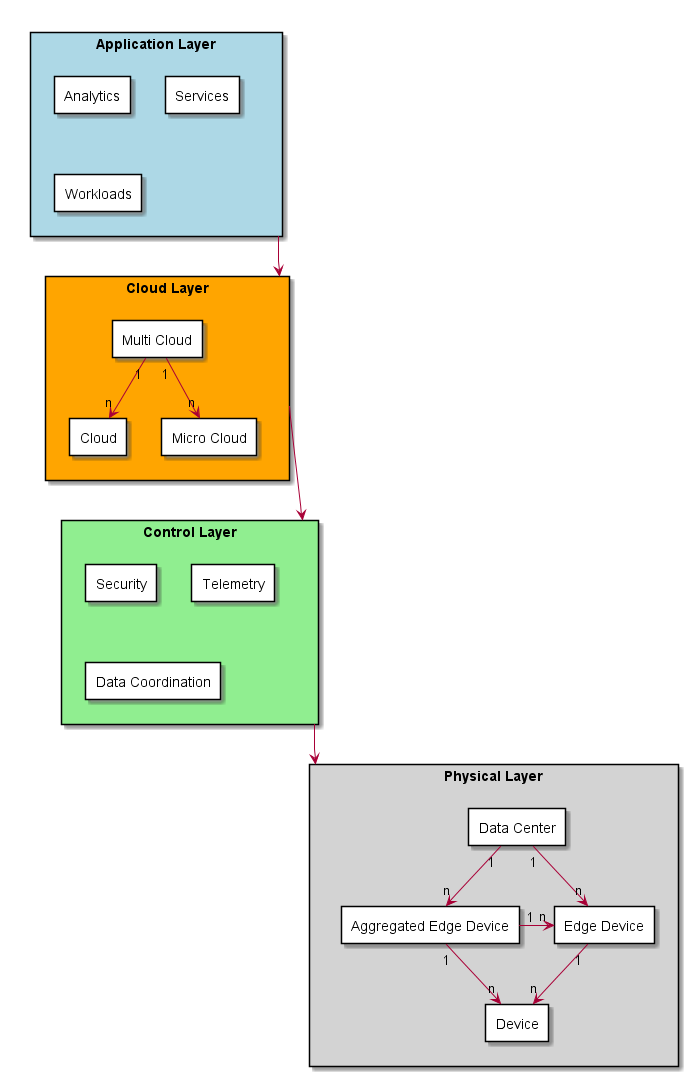
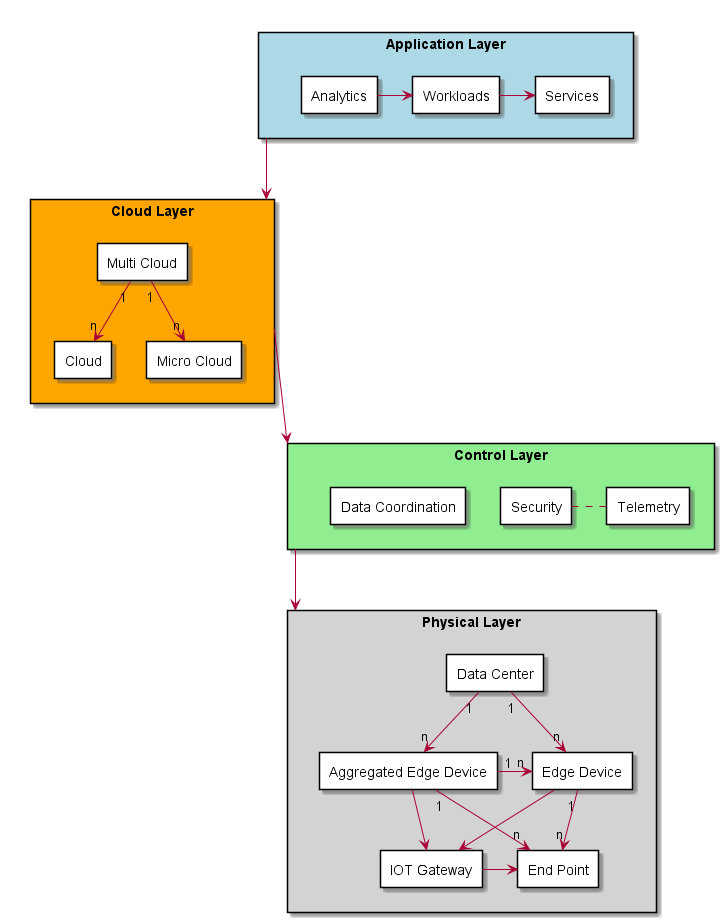
Clean up the layers.

diff --git a/docs/Home.rst b/docs/Home.rst
@@ -77,10 +77,19 @@ Logical Architecture
 The Edgeville Architecture contains several subsystems and components. The following is a diagram on
 how these components work together to fulfill the high level use cases.
 
-* :ref:`SubSystem-Cloud` - contains all of the Subsystems for the cloud: :ref:`SubSystem-Cloud/SDI` , :ref:`SubSystem-Cloud/uSDI`, :ref:`SubSystem-Cloud/Common-Cloud-Core` responsible for application and service management.
-* :ref:`SubSystem-Control` - contains all of the Subsystems for the control of the edge devices: :ref:`SubSystem-Control/Data-Coordinator`, :ref:`SubSystem-Control/Edgeville-Agent`, :ref:`SubSystem-Control/Edgeville-Manager`.
-* :ref:`SubSystem-Security` - contains all of the Subsystems for the security of the edge and data centers: :ref:`SubSystem-Security/Encryption`, :ref:`SubSystem-Security/Identity-Manager`, :ref:`SubSystem-Security/Trust-Manager`
-* :ref:`SubSystem-Telemetry` - contains all of Telemety Bus from multiple clouds, services and application stacks: :ref:`SubSystem-Telemetry/Telemetry-Aggregator`, :ref:`Subsystem-Telemetry/Telemetry-Bus`,  :ref:`Subsystem-Telemetry/Telemetry-Producer`,  :ref:`Subsystem-Telemetry/Telemetry-Subscriber`
+* :ref:`SubSystem-Application` - contains all of the Subsystems for the application layer:
+  * :ref:`SubSystem-Application/Analytics` - Generalized Analytics workload
+  * :ref:`SubSystem-Application/Services` - Services that provide capabilities to all applications and workloads.
+  * :ref:`SubSystem-Application/Workloads` - Workload connects applications, and services together.
+* :ref:`SubSystem-Cloud` - contains all of the Subsystems for the cloud:
+  * :ref:`SubSystem-Cloud/SDI` - Interface for Private and Public Clouds.
+  * :ref:`SubSystem-Cloud/uSDI` - Interface to micro-Clouds
+  * :ref:`SubSystem-Cloud/Common-Cloud-Core` - Interface to Hybrid/Multi Cloud.
+* :ref:`SubSystem-Control` - contains all of the Subsystems for the control of the edge devices:
+  * :ref:`SubSystem-Control/Data-Coordinator` - Coordinates data between the different devices.
+  * :ref:`SubSystem-Control/Edgeville-Agent` - process running on the Edge Device and Aggregated Edge Device to manage control of the device.
+  * :ref:`SubSystem-Control/Edgeville-Manager`- process running on the Data Center and Aggregated Edge Device to manage control of its children devices.
+* :ref:`SubSystem-Physical` - contains all of the physical devices in the system.
 
 .. image:: Solution/HighLevelLogical.png
 
